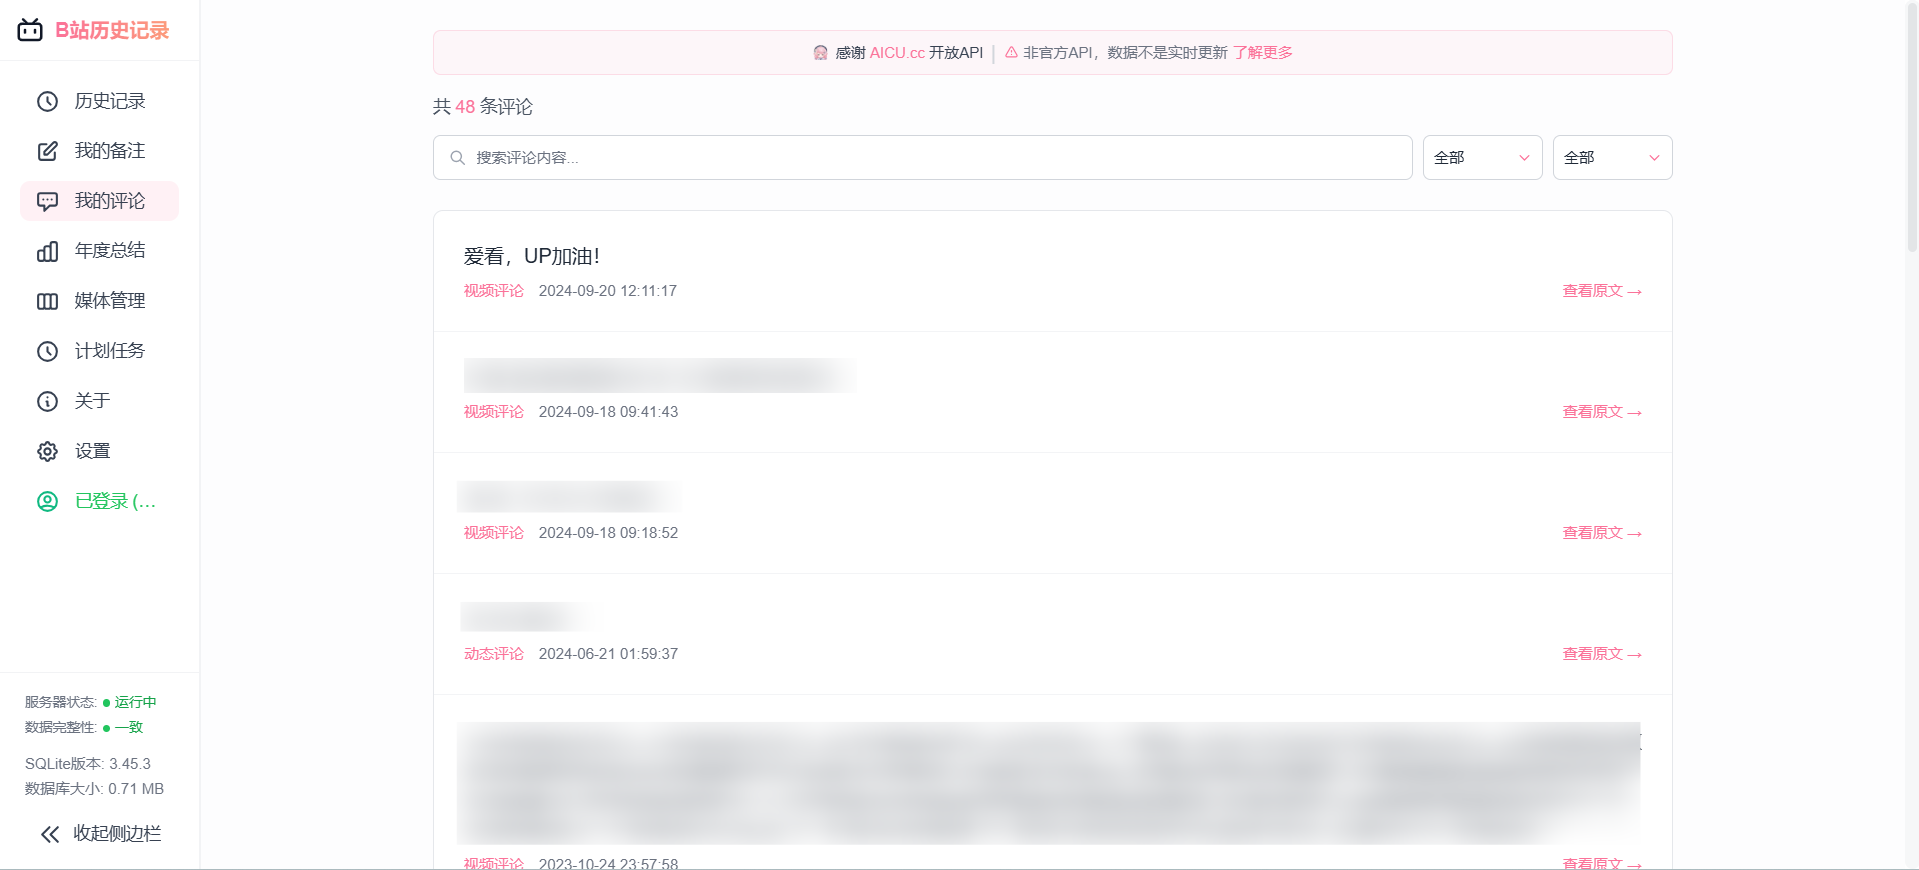
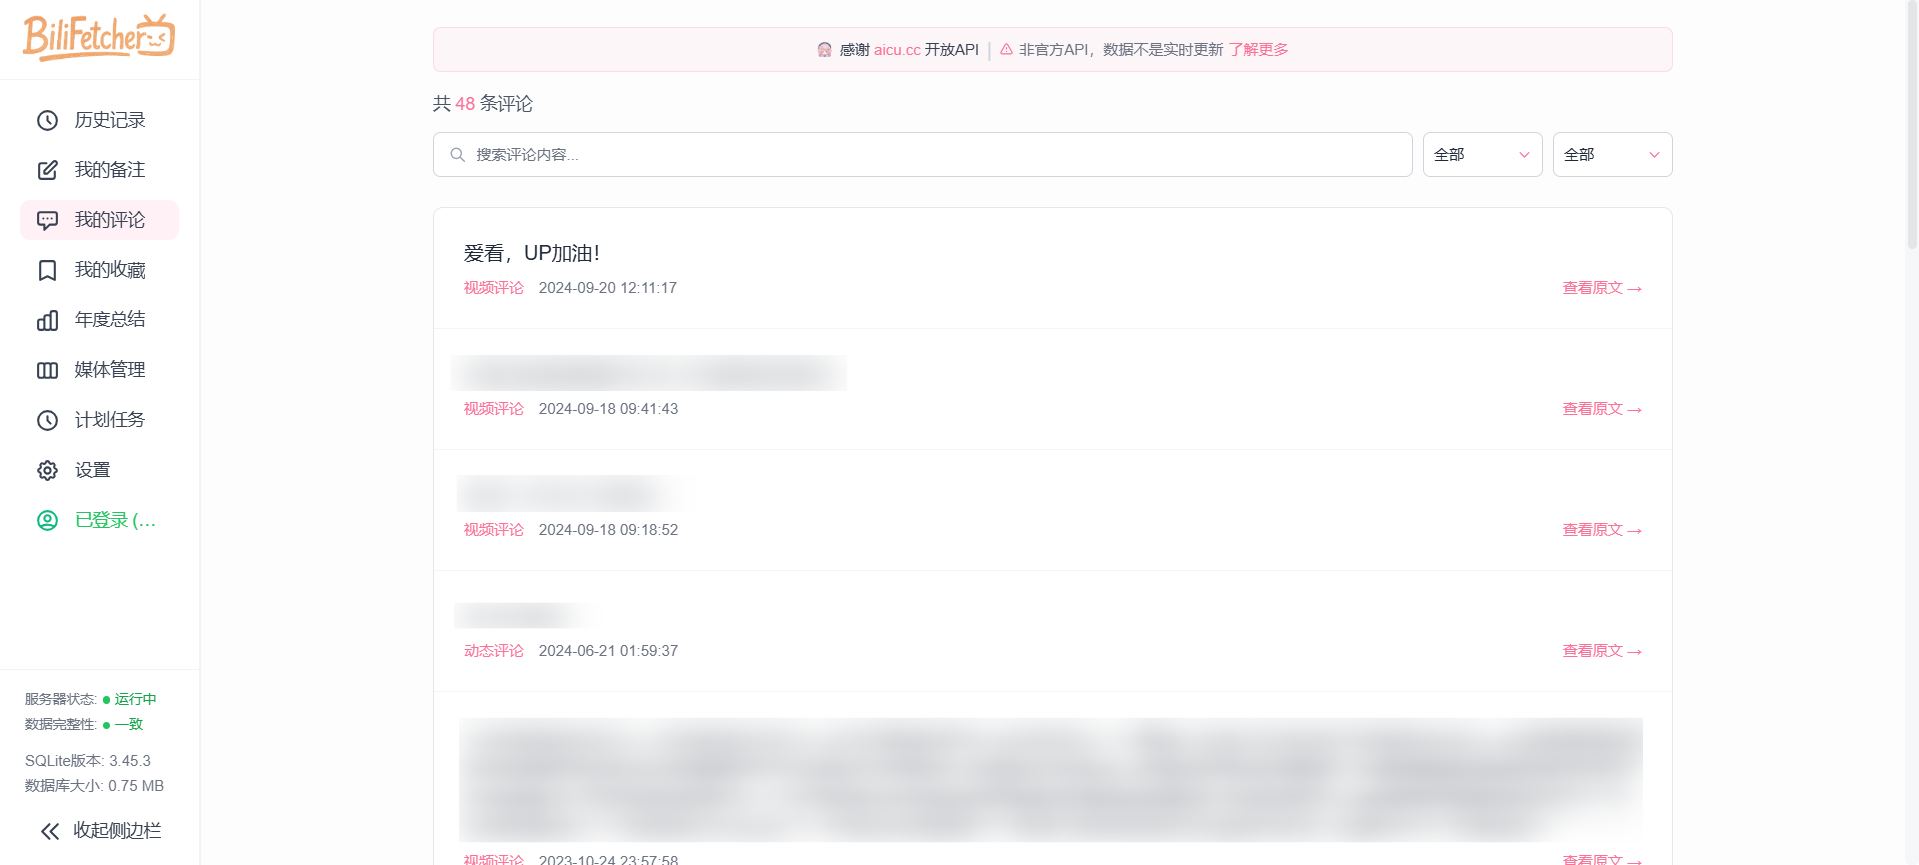
docs(README): 添加logo

diff --git a/src/components/tailwind/Sidebar.vue b/src/components/tailwind/Sidebar.vue
@@ -10,11 +10,8 @@
       <div class="h-full flex flex-col">
         <!-- 顶部 Logo -->
         <div class="p-3 border-b border-gray-200/50">
-          <router-link to="/" class="flex items-center space-x-2" :class="{ 'justify-center': isCollapsed }">
-            <svg class="h-6 w-6 text-gray-900 flex-shrink-0" viewBox="0 0 1024 1024" version="1.1" xmlns="http://www.w3.org/2000/svg">
-              <path fill="currentColor" d="M306.005333 117.632L444.330667 256h135.296l138.368-138.325333a42.666667 42.666667 0 0 1 60.373333 60.373333L700.330667 256H789.333333A149.333333 149.333333 0 0 1 938.666667 405.333333v341.333334a149.333333 149.333333 0 0 1-149.333334 149.333333h-554.666666A149.333333 149.333333 0 0 1 85.333333 746.666667v-341.333334A149.333333 149.333333 0 0 1 234.666667 256h88.96L245.632 177.962667a42.666667 42.666667 0 0 1 60.373333-60.373334zM789.333333 341.333333h-554.666666a64 64 0 0 0-63.701334 57.856L170.666667 405.333333v341.333334a64 64 0 0 0 57.856 63.701333L234.666667 810.666667h554.666666a64 64 0 0 0 63.701334-57.856L853.333333 746.666667v-341.333334A64 64 0 0 0 789.333333 341.333333zM341.333333 469.333333a42.666667 42.666667 0 0 1 42.666667 42.666667v85.333333a42.666667 42.666667 0 0 1-85.333333 0v-85.333333a42.666667 42.666667 0 0 1 42.666666-42.666667z m341.333334 0a42.666667 42.666667 0 0 1 42.666666 42.666667v85.333333a42.666667 42.666667 0 0 1-85.333333 0v-85.333333a42.666667 42.666667 0 0 1 42.666667-42.666667z" />
-            </svg>
-            <span v-show="!isCollapsed" class="text-base font-semibold bg-gradient-to-r from-[#fb7299] to-[#fc9b7a] bg-clip-text text-transparent whitespace-nowrap">B站历史记录</span>
+          <router-link to="/" class="w-full flex justify-center items-center">
+            <img src="/logo.png" class="w-full object-contain" alt="Logo" />
           </router-link>
         </div>
 

diff --git a/README.md b/README.md
@@ -1,4 +1,6 @@
-# BilibiliHistoryFrontend
+<div align="center">
+  <img src="./public/logo.png" alt="Logo">
+</div>
 
 这是一个基于 Vue 3 开发的B站历史记录分析工具的前端项目，为用户提供丰富的B站观看历史数据分析功能。
 
@@ -29,20 +31,6 @@ npm run dev
 npm run build
 ```
 
-**项目结构**
-
-```
-BilibiliHistoryFrontend/
-├── src/                    # 源代码目录
-│   ├── api/               # API 接口
-│   ├── components/        # Vue 组件
-│   │   └── tailwind/     # Tailwind 样式组件
-│   ├── router/           # 路由配置
-│   └── style.css         # 全局样式
-├── public/               # 静态资源
-└── vite.config.js        # Vite 配置
-```
-
 ## 首次使用指南
 
 1. **登录账号**
@@ -70,20 +58,23 @@ BilibiliHistoryFrontend/
 **2. 评论**
 <img src="./public/Comments.png" alt="">
 
-**3. 媒体管理**
+**3. 我的收藏**
+<img src="./public/favorites.png" alt="">
+
+**4. 媒体管理**
 <img src="./public/images.png" alt="">
 
-**4. 计划任务**
+**5. 计划任务**
 <img src="./public/scheduler.png" alt="">
 
-**5. 设置**
+**6. 设置**
 <img src="./public/setting.png" alt="">
 
-**6. 视频下载功能**
+**7. 视频下载功能**
 <img src="./public/download.png" alt="">
 
 
-**7. 年度总结页面**
+**8. 年度总结页面**
 
 开场页
 <img src="public/HeroPage.png" alt="">
@@ -109,7 +100,7 @@ UP主完成率
 月度关键词
 <img src="./public/MonthlyTitle.png" alt="">
 
-**8. 本地摘要功能**
+**9. 本地摘要功能**
 
 本地摘要功能允许用户在本地生成视频内容摘要，无需依赖B站官方AI摘要：
 
@@ -150,13 +141,6 @@ UP主完成率
    npm run tauri:clean
    ```
    清理 `src-tauri/target` 目录中的构建产物，释放磁盘空间。
-
-### 构建特点
-
-- 小体积：生成的可执行文件约 11MB，远小于 Electron 构建的应用
-- 高性能：使用 Rust 后端和系统 WebView，运行更流畅
-- 无需安装：生成的是独立可执行文件，无需安装即可使用
-- 本地化：所有链接在应用内部打开，提供更好的用户体验
 
 ## 贡献指南
 
